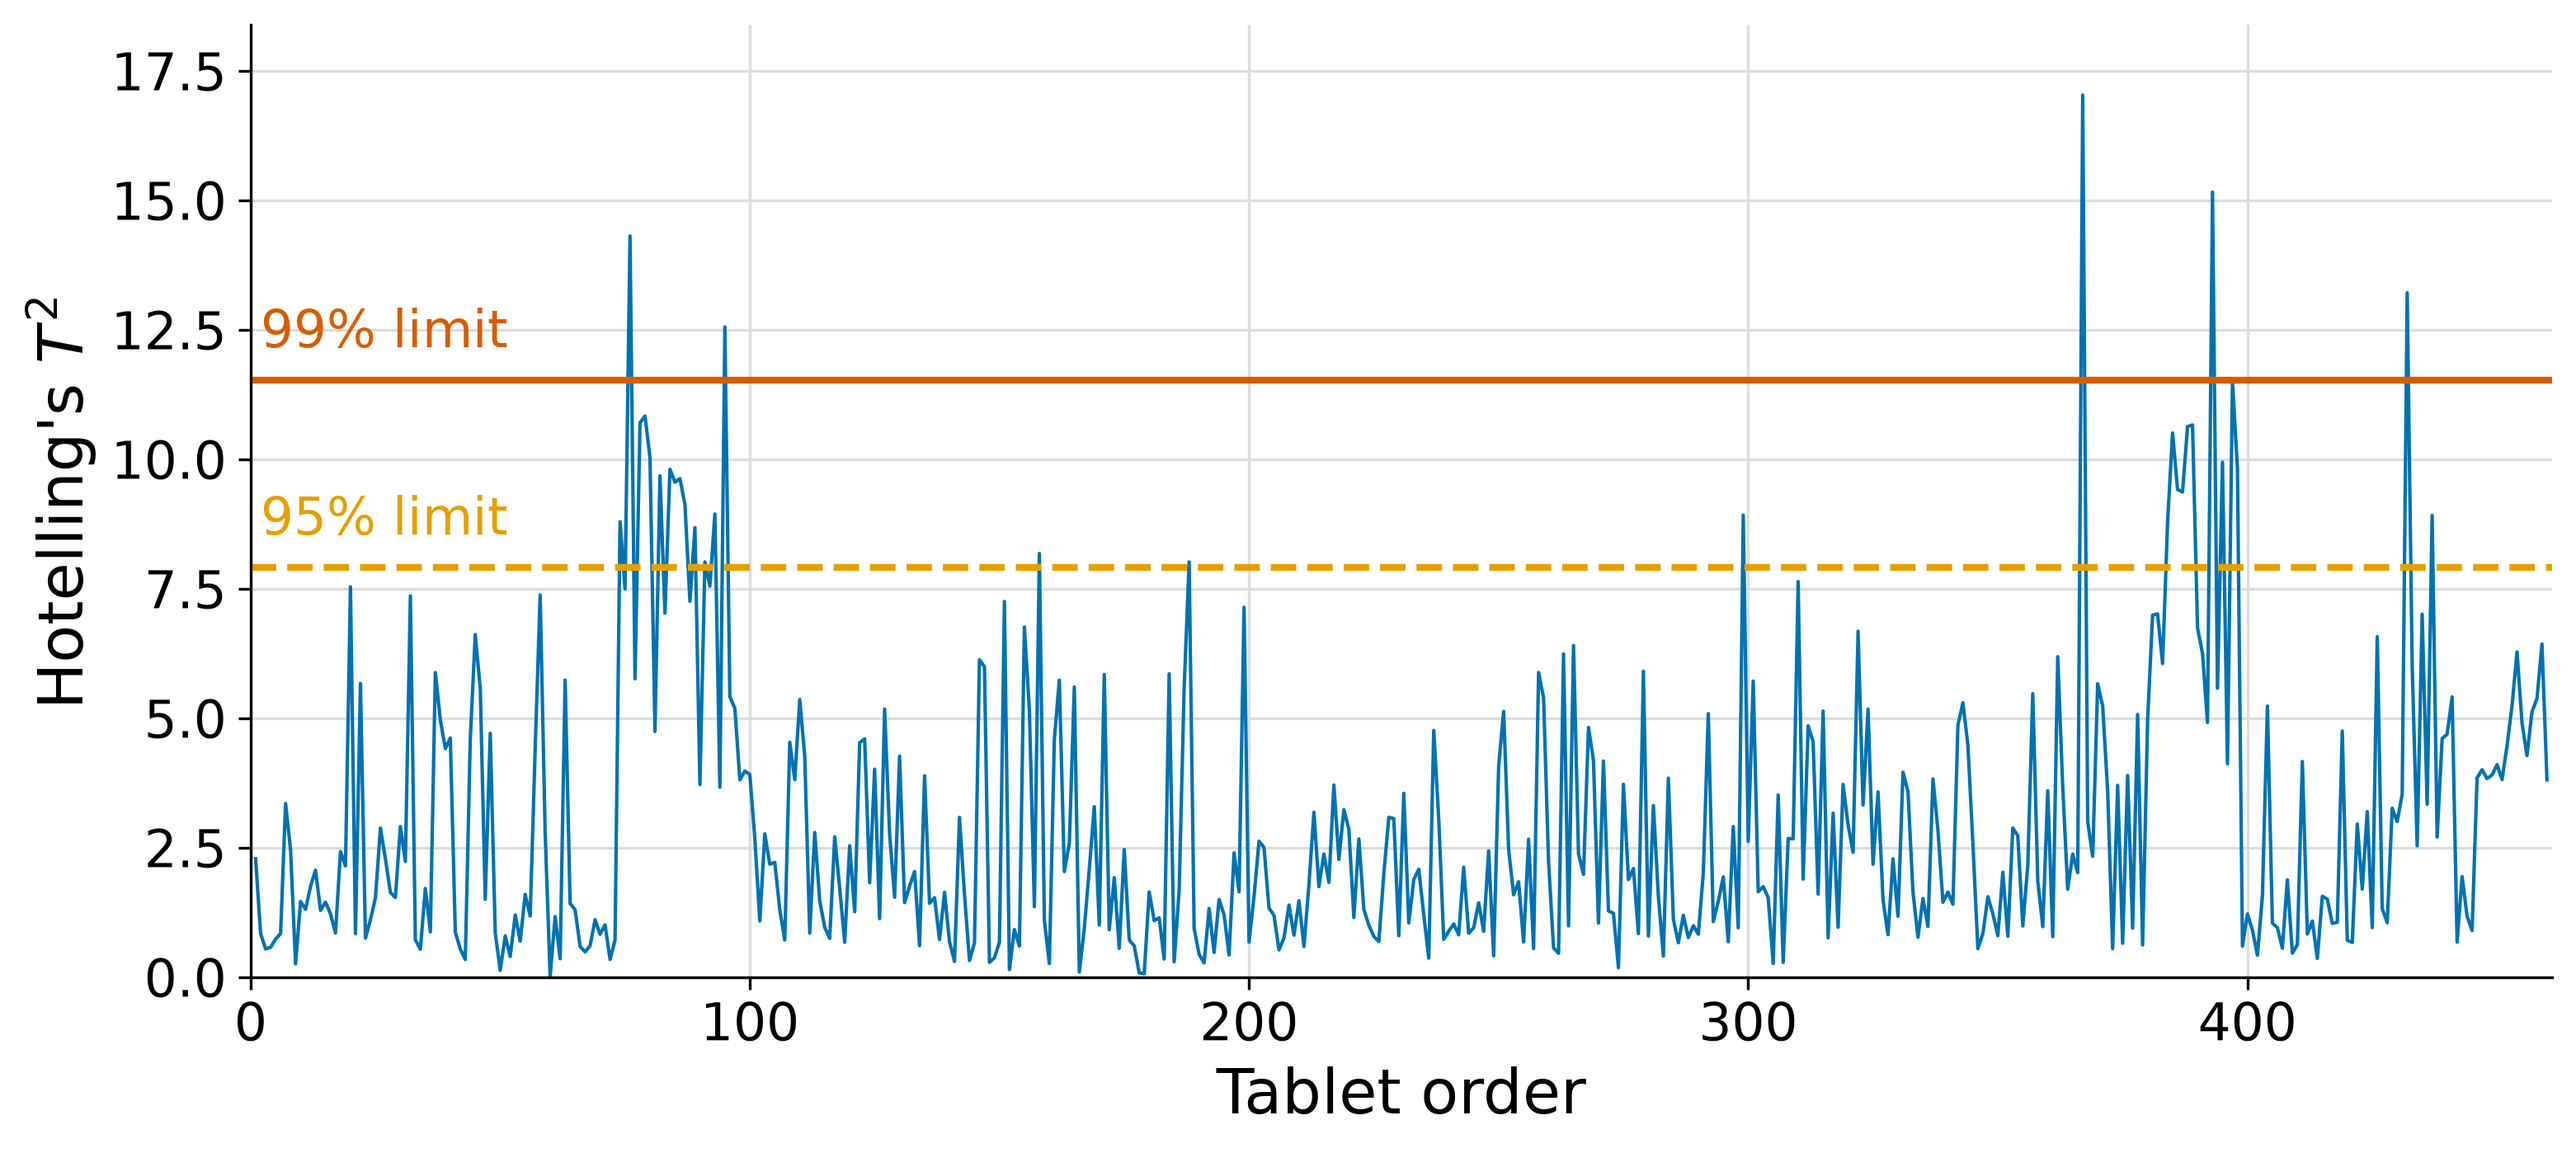
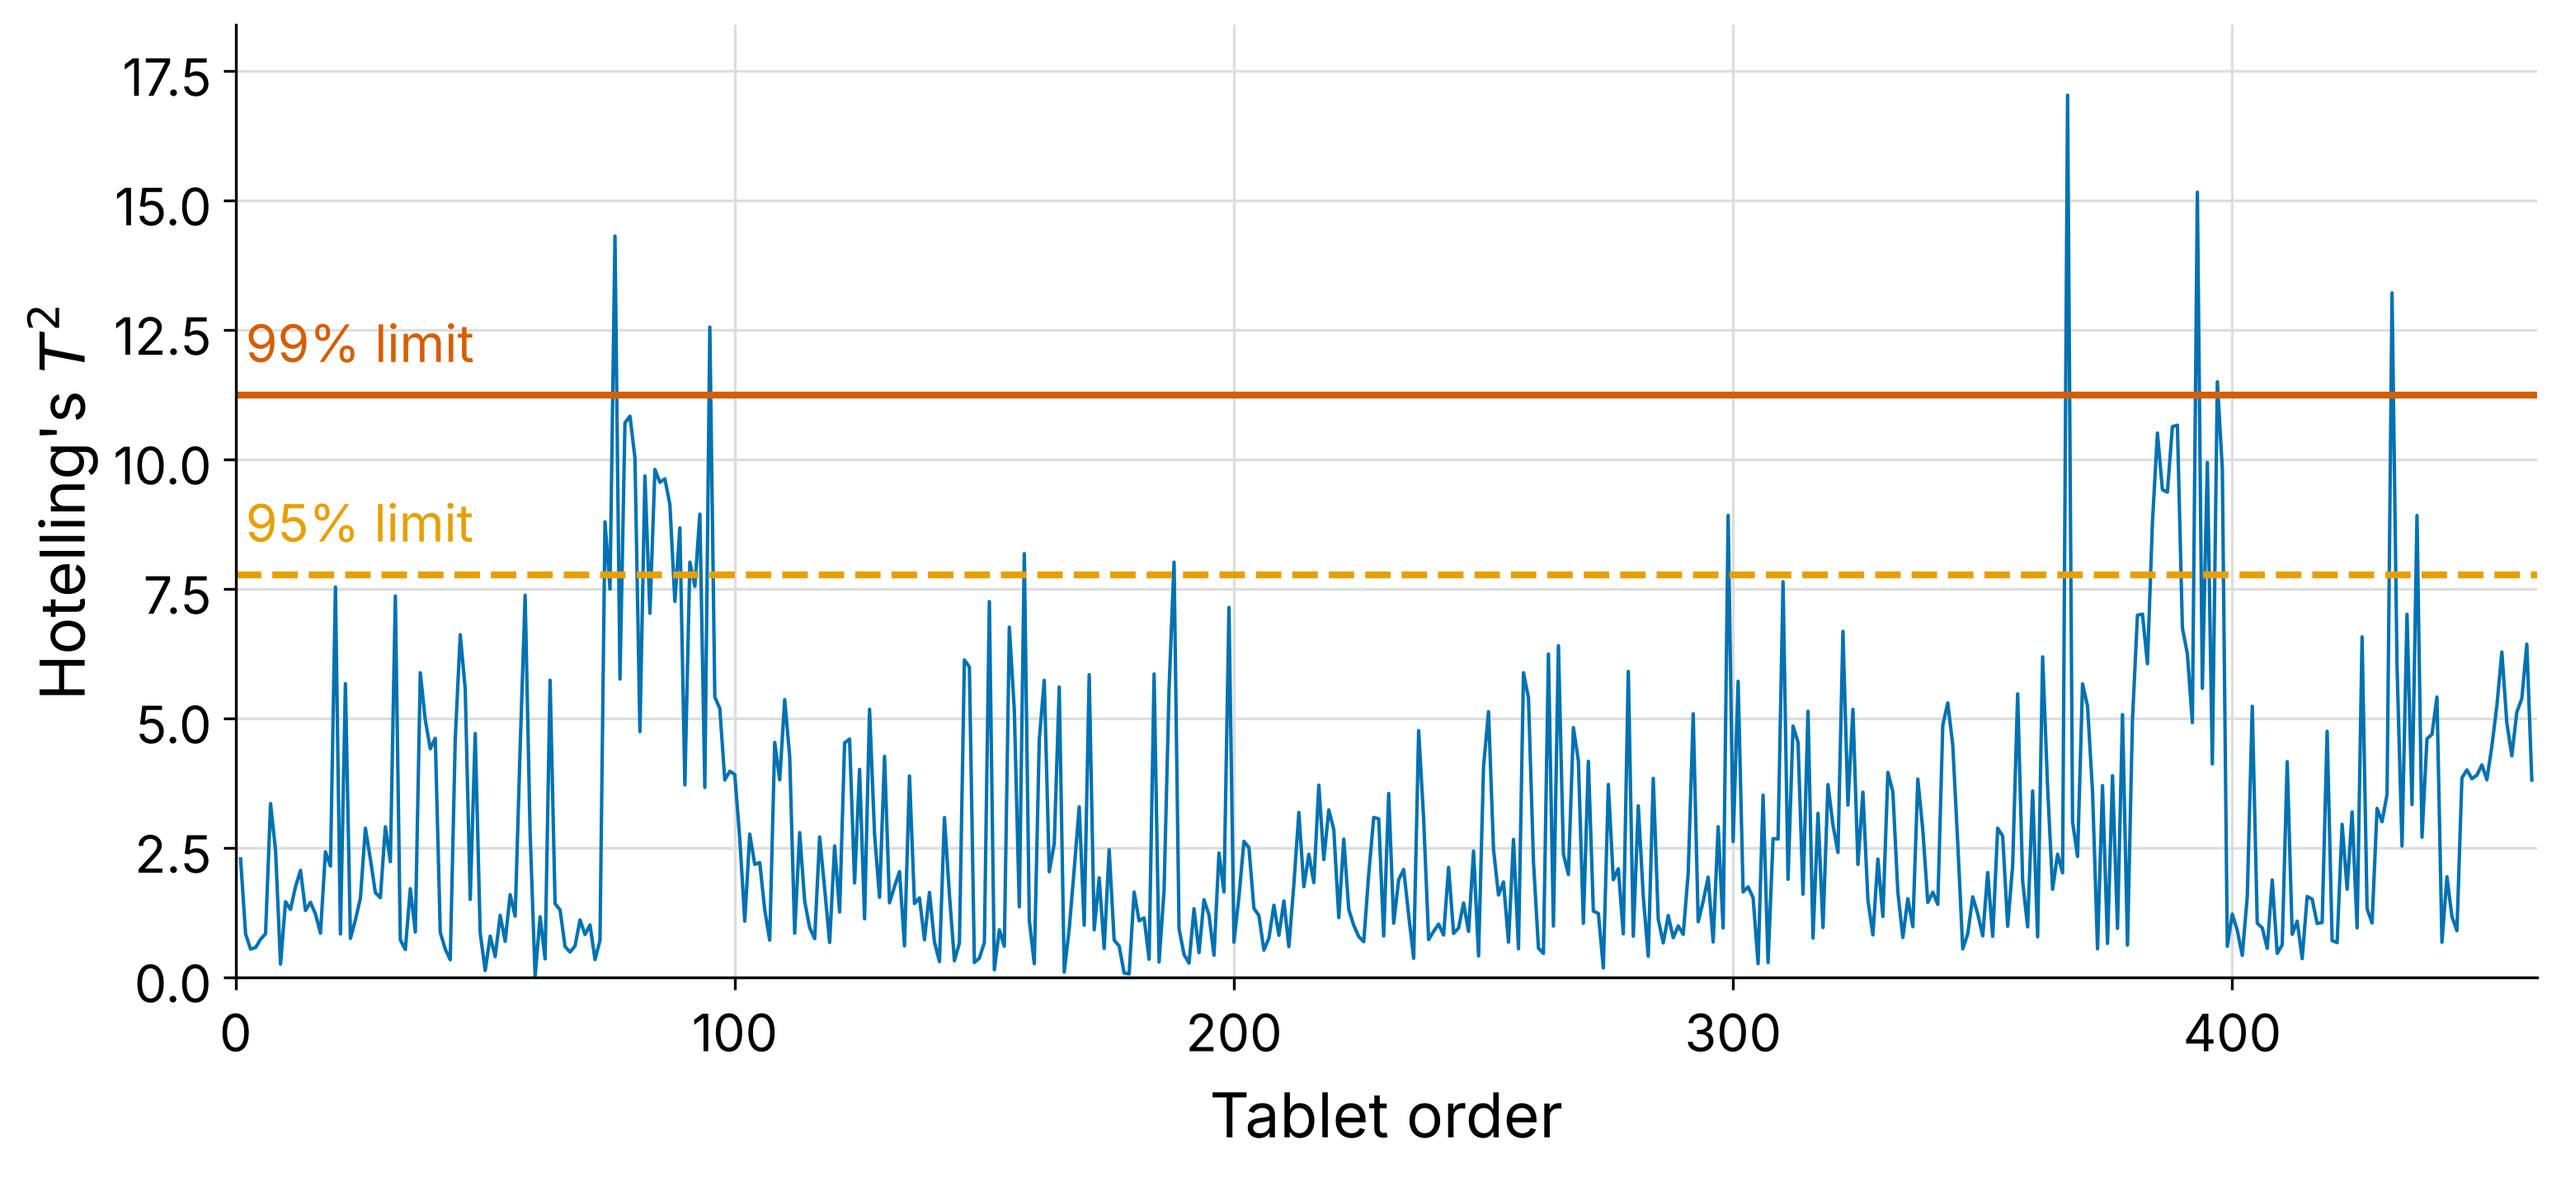
Draw the tablets against the beta T2 limit for fitted observations
The 460 tablets built the model, so their T2 is judged by the limit for
fitted rows (judged_rows="fitted"), 7.77 and 11.24 at 95% and 99%, not
the A(N-1)/(N-A) F values 7.91 and 11.52. The score plot's axes now carry
the variance each component explains, and its legend moves off a tablet.

Claude-Session: https://claude.ai/code/session_01S4nNrQrezZa8Wt3JVywWoM

diff --git a/examples/tablet-spectra/tablet_spectra_pca_figures.py b/examples/tablet-spectra/tablet_spectra_pca_figures.py
@@ -20,8 +20,11 @@ here reads ``tablet-spectra.csv`` from openmv.net, with the committed
 
 The model is a PCA by singular value decomposition on the autoscaled data,
 which is what ``prcomp(spectra, scale=TRUE)`` did. The T-squared limits are
-computed from the F-distribution rather than pasted in as the constants
-7.90771 and 11.5244 the R script carried.
+computed rather than pasted in as the constants 7.90771 and 11.5244 the R
+script carried. The 460 tablets are the observations the model was fitted to,
+so the limits are those for fitted rows: the beta limits that
+``process_improve``'s ``hotellings_t2_limit`` gives with ``judged_rows="fitted"``,
+7.774 and 11.24, which the book's Hotelling's T-squared section explains.
 
 Following the original, SPE here is the residual *distance* (the square
 root of the sum of the squared residuals of a row), not the sum of squares.
@@ -33,9 +36,11 @@ Defects in the originals corrected here:
   what one and two components explain together. The legend now says so.
 - The two T-squared limits were hard-coded constants (7.90771 and
   11.5244) with no derivation, and would silently become wrong if the
-  number of components or tablets changed. They are computed from the
-  F-distribution, reproducing those two values, and printed when this
-  script runs.
+  number of components or tablets changed. They are computed, and printed
+  when this script runs. Those two constants were the limit
+  A(N-1)/(N-A) times the F value, which treats the model's centre as known;
+  the tablets are drawn against the beta limit for the observations used
+  to build the model instead.
 - The score plot's ellipses were drawn dotted in red and green, a pairing
   that is hard to tell apart for a colourblind reader; they are now
   distinguished by colour and dash pattern from a colourblind-safe pair.
@@ -61,7 +66,6 @@ mpl.use("Agg")
 import matplotlib.pyplot as plt
 import numpy as np
 import pandas as pd
-import scipy.stats
 from process_improve.multivariate.methods import hotellings_t2_limit, spe_calculation
 
 BLUE = "#0072B2"
@@ -185,26 +189,14 @@ def spe_per_tablet(spe: dict, outdir: pathlib.Path) -> None:
 def t2_limit(n_rows: int, n_components: int, confidence: float) -> float:
     """Hotelling's T-squared limit for observations used to build the model.
 
-    Rows that the model was fitted on use A(N-1)/(N-A) times the F value;
-    a future observation, not in the fit, uses A(N^2-1)/(N(N-A)) instead.
-    These 460 tablets are the fitting set, so the first form applies.
-
-    ``process_improve``'s ``hotellings_t2_limit`` gives only the second form,
-    which is this one times (N+1)/N. That fixed ratio is checked against the
-    library on every run, so a change to how the library computes the limit
-    fails here instead of leaving this figure on the old formula.
+    These 460 tablets are the fitting set, so the limit is the one for fitted
+    rows: ``(N-1)^2/N`` times the beta percentile, which is what
+    ``process_improve``'s ``hotellings_t2_limit`` gives with
+    ``judged_rows="fitted"``. A future observation, not in the fit, would use
+    the wider F limit, ``judged_rows="new"``.
     """
-    limit = float(
-        n_components * (n_rows - 1) / (n_rows - n_components)
-        * scipy.stats.f.ppf(confidence, n_components, n_rows - n_components)
-    )
-    future = hotellings_t2_limit(conf_level=confidence, n_components=n_components, n_rows=n_rows)
-    if not np.isclose(future, limit * (n_rows + 1) / n_rows, rtol=1e-9):
-        raise ValueError(
-            f"process_improve's T² limit {future:.6f} is no longer {(n_rows + 1) / n_rows:.6f} times "
-            f"this script's {limit:.6f}: the library changed its formula, so update t2_limit here."
-        )
-    return limit
+    return float(hotellings_t2_limit(conf_level=confidence, n_components=n_components,
+                                     n_rows=n_rows, judged_rows="fitted"))
 
 
 def ellipse(spread_i: float, spread_j: float, limit: float) -> np.ndarray:
@@ -215,7 +207,7 @@ def ellipse(spread_i: float, spread_j: float, limit: float) -> np.ndarray:
     ])
 
 
-def score_plot(scores: np.ndarray, spread: np.ndarray, limits: dict,
+def score_plot(scores: np.ndarray, spread: np.ndarray, explained: np.ndarray, limits: dict,
                outdir: pathlib.Path) -> None:
     fig, ax = plt.subplots(figsize=(10, 6.5))
     ax.grid(color=GRID, linewidth=0.8)
@@ -228,10 +220,11 @@ def score_plot(scores: np.ndarray, spread: np.ndarray, limits: dict,
         ax.plot(curve[:, 0], curve[:, 1], style,
                 color=ORANGE if confidence == 0.95 else VERMILLION,
                 linewidth=2, label=f"{100 * confidence:.0f}% limit")
-    ax.set_xlabel("$t_1$")
-    ax.set_ylabel("$t_2$")
+    ax.set_xlabel(f"$t_1$ [{explained[0]:.1%}]")
+    ax.set_ylabel(f"$t_2$ [{explained[1]:.1%}]")
     ax.set_title("Score plot for tablet spectra")
-    ax.legend(frameon=False, loc="upper right")
+    # Lower left: the one corner with no tablet in it.
+    ax.legend(frameon=False, loc="lower left")
     save(fig, outdir, "spectral-data-t1-t2-scoreplot.png")
 
 
@@ -281,7 +274,7 @@ def main(outdir: pathlib.Path) -> None:
     raw_spectra_plot(data, outdir)
     r2_per_wavelength(r2, outdir)
     spe_per_tablet(spe, outdir)
-    score_plot(scores, spread, limits, outdir)
+    score_plot(scores, spread, explained, limits, outdir)
     t2_line_plot(t2, limits, outdir)
 
 
